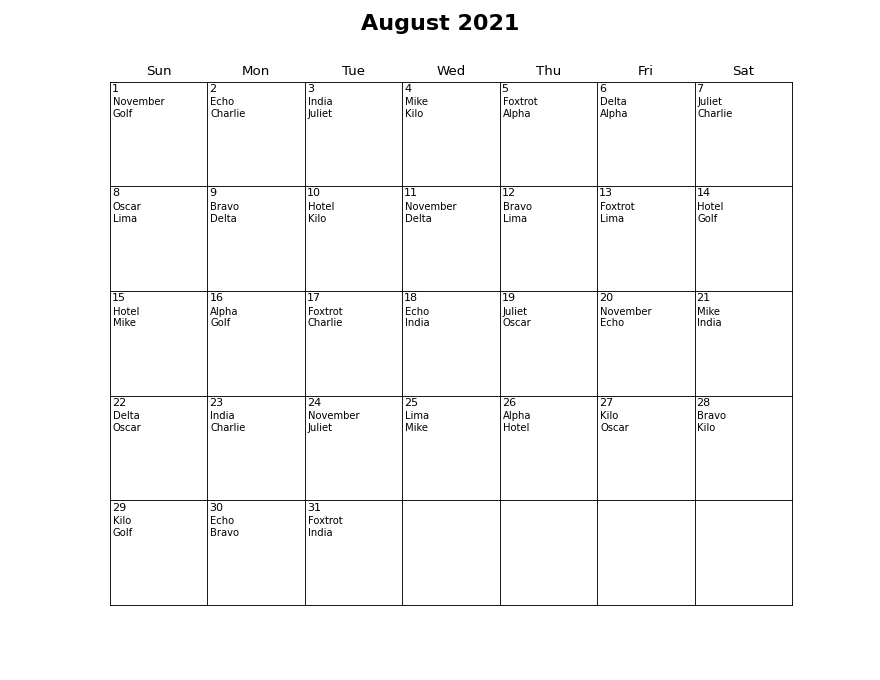
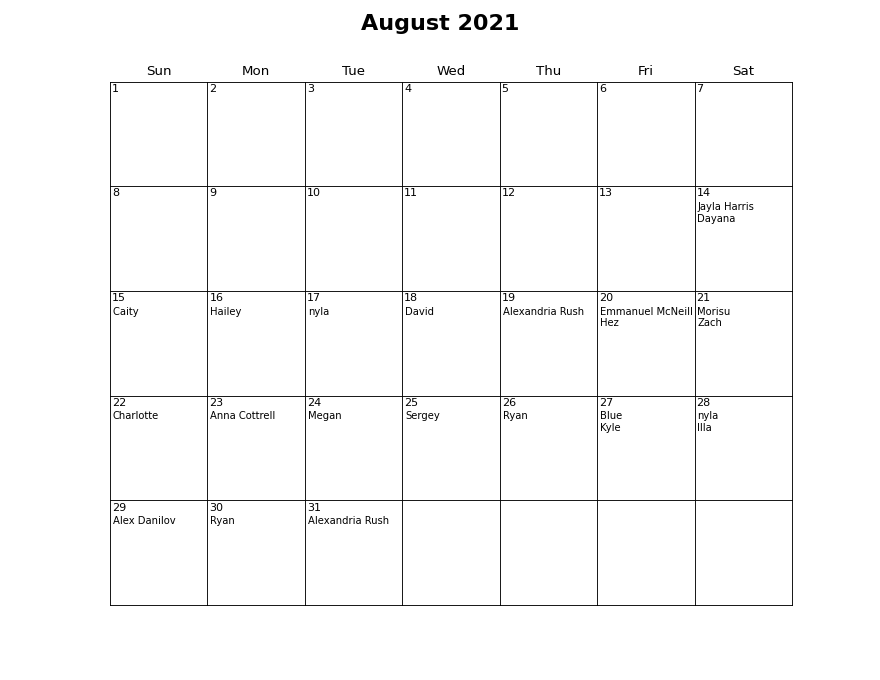
V1.2

diff --git a/main.py b/main.py
@@ -20,18 +20,18 @@ WEEKENDS = ['Friday', 'Saturday']
 NUM_DAYS_YEAR = 365
 
 # setting number of RAs on duty weekday/weekend
-WEEKDAY_STAFF_NUM = 2
+WEEKDAY_STAFF_NUM = 1
 WEEKEND_STAFF_NUM = 2
 
 # month number and string
-MONTH_NUM = datetime.today().month + 1 % 12
+MONTH_NUM = datetime.today().month % 12
 MONTH_STRING = calendar.month_name[MONTH_NUM]
 
 # number of days in current month
-NUM_DAYS_MONTH = calendar.monthrange(datetime.today().year, datetime.today().month + 1 % 12)[1]
+NUM_DAYS_MONTH = calendar.monthrange(datetime.today().year, datetime.today().month % 12)[1]
 
 # schedule bounds - useful for partial months of duty scheduling
-SCHEDULE_START_DAY = 1
+SCHEDULE_START_DAY = 14
 MONTH_END_DAY = NUM_DAYS_MONTH
 
 # dictionary to hold names of RA scheduled for each date
@@ -42,7 +42,7 @@ for i in range(NUM_DAYS_MONTH):
 
 # read and create Pandas data frame from Availability XLSX file
 # CHANGE THE NAME OF YOUR AVAILABILITY XLSX FILE HERE
-AVAILABILITY_FILE_PATH = "Availability/test1.xlsx"
+AVAILABILITY_FILE_PATH = "Availability/august.xlsx"
 availability_master = pd.DataFrame(pd.read_excel(AVAILABILITY_FILE_PATH))
 
 #################
@@ -53,7 +53,7 @@ RA_NAMES = availability_master["First Name"].tolist()
 RA_BUSY_DAYS = availability_master["Days"].tolist()
 
 # number of days in current month
-NUM_DAYS_MONTH = calendar.monthrange(datetime.today().year, datetime.today().month + 1 % 12)[1]
+NUM_DAYS_MONTH = calendar.monthrange(datetime.today().year, datetime.today().month % 12)[1]
 
 # create RA object from ResidentAdviser class for each RA in Availability XLSX file
 RA_DETAILS = {}
@@ -62,7 +62,8 @@ for i in range(len(RA_NAMES)):
     days_ints_strings = []
     availability_excel = []
     days_strings = RA_BUSY_DAYS[i]
-    days_strings_split = days_strings.split("/")
+    if isinstance(days_strings, str):
+        days_strings_split = days_strings.split("/")
 
     for j in range(len(days_strings_split)):
         if j % 2:
@@ -75,11 +76,10 @@ for i in range(len(RA_NAMES)):
         if day not in days_ints:
             availability_excel.append(day)
 
-    print(availability_excel)
     RA_DETAILS[RA_NAMES[i]] = ResidentAdviser(RA_NAMES[i], availability_excel)
 
 # determine candidates for scheduling on each day of the current month + schedule accordingly based on availability
-for DAY_NUM in range(NUM_DAYS_MONTH):
+for DAY_NUM in range(SCHEDULE_START_DAY - 1, NUM_DAYS_MONTH):
     count_threshold = NUM_DAYS_YEAR
     candidates = []
     candidate_selected = None
@@ -90,11 +90,11 @@ for DAY_NUM in range(NUM_DAYS_MONTH):
     if calendar.day_name[datetime(YEAR, MONTH_NUM, DAY_NUM + 1).weekday()] in WEEKDAYS:
         weekday_boolean = True
         for keys, RA in RA_DETAILS.items():
-            if RA.scheduled_weekdays < count_threshold:
-                count_threshold = RA.scheduled_weekdays
+            if RA.scheduled_total < count_threshold:
+                count_threshold = RA.scheduled_total
         while len(candidates) < WEEKDAY_STAFF_NUM:
             for keys, RA in RA_DETAILS.items():
-                if RA.scheduled_weekdays <= count_threshold and DAY_NUM + 1 in RA.availability_clean and RA.name not in candidates:
+                if RA.scheduled_total <= count_threshold and DAY_NUM + 1 in RA.availability_clean and RA.name not in candidates:
                     if DAY_NUM:
                         if RA.name not in schedule_dict[DAY_NUM]:
                             candidates.append(RA.name)
@@ -121,6 +121,7 @@ for DAY_NUM in range(NUM_DAYS_MONTH):
             # update weekday counts
             for i in range(len(candidates)):
                 RA_DETAILS[candidates[i]].scheduled_weekdays += 1
+                RA_DETAILS[candidates[i]].scheduled_total += 1
 
             # append RA names to the schedule management dictionary
             candidates_selected = []
@@ -150,6 +151,7 @@ for DAY_NUM in range(NUM_DAYS_MONTH):
                 # update weekday counts
                 for i in range(len(candidates_selected)):
                     RA_DETAILS[candidates[candidate_selection[i]]].scheduled_weekdays += 1
+                    RA_DETAILS[candidates[candidate_selection[i]]].scheduled_total += 1
 
                 # append RA names to the schedule management dictionary
                 schedule_dict[DAY_NUM + 1] = candidates_selected
@@ -174,6 +176,8 @@ for DAY_NUM in range(NUM_DAYS_MONTH):
                 for i in range(len(candidates_selected)):
                     RA_DETAILS[candidate_guaranteed].scheduled_weekdays += 1
                     RA_DETAILS[candidates[candidate_selection[i]]].scheduled_weekdays += 1
+                    RA_DETAILS[candidate_guaranteed].scheduled_total += 1
+                    RA_DETAILS[candidates[candidate_selection[i]]].scheduled_total += 1
 
                 # append RA names to the schedule management dictionary
                 candidates_selected.append(candidate_guaranteed)
@@ -181,11 +185,11 @@ for DAY_NUM in range(NUM_DAYS_MONTH):
     elif calendar.day_name[datetime(YEAR, MONTH_NUM, DAY_NUM + 1).weekday()] in WEEKENDS:
         weekday_boolean = False
         for keys, RA in RA_DETAILS.items():
-            if RA.scheduled_weekends < count_threshold:
-                count_threshold = RA.scheduled_weekends
+            if RA.scheduled_total < count_threshold:
+                count_threshold = RA.scheduled_total
         while len(candidates) < WEEKEND_STAFF_NUM:
             for keys, RA in RA_DETAILS.items():
-                if RA.scheduled_weekends <= count_threshold and DAY_NUM + 1 in RA.availability_clean and RA.name not in candidates:
+                if RA.scheduled_total <= count_threshold and DAY_NUM + 1 in RA.availability_clean and RA.name not in candidates:
                     if DAY_NUM:
                         if RA.name not in schedule_dict[DAY_NUM]:
                             candidates.append(RA.name)
@@ -212,6 +216,7 @@ for DAY_NUM in range(NUM_DAYS_MONTH):
             # update weekend counts
             for i in range(len(candidates)):
                 RA_DETAILS[candidates[i]].scheduled_weekends += 1
+                RA_DETAILS[candidates[i]].scheduled_total += 1
 
             # append RA names to the schedule management dictionary
             candidates_selected = []
@@ -241,6 +246,7 @@ for DAY_NUM in range(NUM_DAYS_MONTH):
                 # update weekend counts
                 for i in range(len(candidates_selected)):
                     RA_DETAILS[candidates[candidate_selection[i]]].scheduled_weekends += 1
+                    RA_DETAILS[candidates[candidate_selection[i]]].scheduled_total += 1
 
                 # append RA names to the schedule management dictionary
                 schedule_dict[DAY_NUM + 1] = candidates_selected
@@ -265,6 +271,8 @@ for DAY_NUM in range(NUM_DAYS_MONTH):
                 for i in range(len(candidates_selected)):
                     RA_DETAILS[candidate_guaranteed].scheduled_weekends += 1
                     RA_DETAILS[candidates[candidate_selection[i]]].scheduled_weekends += 1
+                    RA_DETAILS[candidate_guaranteed].scheduled_total += 1
+                    RA_DETAILS[candidates[candidate_selection[i]]].scheduled_total += 1
 
                 # append RA names to the schedule management dictionary
                 candidates_selected.append(candidate_guaranteed)
@@ -296,7 +304,7 @@ print("-------------------------------------------")
 
 # create calendar with names of RAs on duty labeled on respective date
 calendar_create = MplCalendar(YEAR, MONTH_NUM)
-for DAY_NUM in range(NUM_DAYS_MONTH):
+for DAY_NUM in range(SCHEDULE_START_DAY - 1, NUM_DAYS_MONTH):
     if calendar.day_name[datetime(YEAR, MONTH_NUM, DAY_NUM + 1).weekday()] in WEEKDAYS:
         for i in range(WEEKDAY_STAFF_NUM):
             calendar_create.add_event(DAY_NUM + 1, schedule_dict[DAY_NUM + 1][i])

diff --git a/RA.py b/RA.py
@@ -11,12 +11,12 @@ class ResidentAdviser:
 
     def __init__(self, name, availability):
         self.name = name                        # name of the RA
-        self.availability_raw = availability    # list to hold availabilities for each day of the month
-        self.availability_clean = []            # list to hold dates for availability for duty for the given month
-        self.cleanAvailability()                # method call to remove dates the RA is not available
+        self.availability_clean = availability  # list to hold dates for availability for duty for the given month
+        # self.cleanAvailability()                # method call to remove dates the RA is not available
 
         self.scheduled_weekdays = 0             # count for number of weekdays an RA is scheduled in a month
         self.scheduled_weekends = 0             # count for number of weekends an RA is scheduled in a month
+        self.scheduled_total = 0                # count for number of total days scheduled
 
         self.partnerships = []                  # list to hold names of RAs an RA has had duty with for the given month
 
